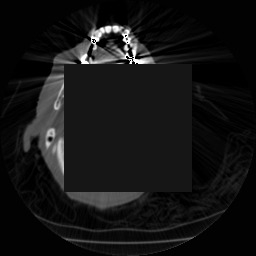
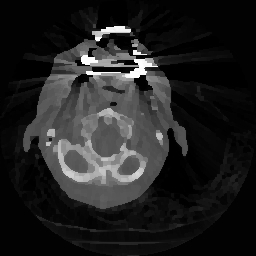
Test improvement

diff --git a/src/imaging/Image.cpp b/src/imaging/Image.cpp
@@ -301,16 +301,17 @@ const void Image::pad_for_kuwahara(const Image& res) const{
         }
     }
 }
+
 void Image::kuwahara()  {
     double mean, variance;
+    const double kernel_area = (kuwahara_kernel_size * kuwahara_kernel_size);
+    #pragma omp parallel for schedule( dynamic, 2)
     for(int ch = 0; ch < channels; ch++){
         std::cout << ch << std::endl;
         for (int i = kuwahara_kernel_size/2; i < getHeight() - kuwahara_kernel_size/2; i++) {
-            std::cout << "Row " << i << std::endl;
             for (int j = kuwahara_kernel_size/2; j < getWidth() - kuwahara_kernel_size/2; j++) {
-                
-                double min_variance = std::numeric_limits<double>::max();;
-                int min_mean_r, min_mean_g, min_mean_b;
+                double min_variance = 255.;
+                double min_mean;
                 for (int x = i - kuwahara_kernel_size/2; x <= i + kuwahara_kernel_size/2; x++) {
                     for (int y = j - kuwahara_kernel_size/2; y <= j + kuwahara_kernel_size/2; y++) {
                         mean = 0.0;
@@ -318,86 +319,20 @@ void Image::kuwahara()  {
                         for (int a = x - kuwahara_kernel_size/2; a <= x + kuwahara_kernel_size/2; a++) {
                             for (int b = y - kuwahara_kernel_size/2; b <= y + kuwahara_kernel_size/2; b++) {
                                 mean += data[(a * w + b) * channels + ch];
+                                variance += data[(a * w + b) * channels + ch] * data[(a * w + b) * channels + ch];
                             }
                         }
-                        mean /= (kuwahara_kernel_size * kuwahara_kernel_size);
-                        for (int a = x - kuwahara_kernel_size/2; a <= x + kuwahara_kernel_size/2; a++) {
-                            for (int b = y - kuwahara_kernel_size/2; b <= y + kuwahara_kernel_size/2; b++) {
-                                variance += (data[(a * w + b) * channels + ch] - mean) * (data[(a * w + b) * channels + ch] - mean);
-                            }
-                        }
-                        variance /= (kuwahara_kernel_size * kuwahara_kernel_size);
-                        if (variance < min_variance) {
-                            min_variance = variance;
-                            min_mean_r = mean;
-                        }
+                        variance = (variance - (mean * mean / kernel_area)) / (kernel_area - 1);
+                        mean /= kernel_area;
+                        min_variance = std::min(variance, min_variance);
+                        min_mean = (min_variance != variance) ? min_mean : mean;
                     }
                 }
-                data[(i * w + j) * channels + ch] = min_mean_r;
+                data[(i * w + j) * channels + ch] = convert_to_pixel(min_mean);
             }
         }
     }
 }
-//-fast-math, try with it
-/*void Image::kuwahara()  {
-    Image output(w, h, channels); // create a new Image object to store the output
-    // copy the data of the original image to the new Image object
-    std::copy_n(data.get(), w * h * channels, output.data.get());
-    const double filter_area = (double)(kuwahara_kernel_size * kuwahara_kernel_size);
-    for(int ch = 0; ch < channels; ch++){
-        //i want the min standard dev, so take the biggest possible value at the starting point
-        double min_avg;
-        double min_dev = std::numeric_limits<double>::max();
-        int min_row;
-        int min_col;
-
-        for(int row = 0; row < h; row += kuwahara_kernel_size - 1){ 
-            for (int col = 0; col < w; col += kuwahara_kernel_size - 1){
-                double sum = 0.0;
-                double dev = 0.0;  
-                //for every row in the divided image of kernel size, sum the row
-                for(int i = row; i < row + kuwahara_kernel_size; i++){
-                    for(int j = col; j < col + kuwahara_kernel_size; j++){
-                        sum += data[(i * w + j) * channels + ch]  ;
-                    }
-                }
-                
-                const double avg = sum / filter_area;
-                std::cout << avg << std::endl;
-                for(int i = row; i < row + kuwahara_kernel_size; i++){
-                    for(int j = col; j < col + kuwahara_kernel_size; j++){
-                        dev += (data[(i * w + j) * channels + ch] - avg) * (data[(i * w + j) * channels + ch] - avg);
-                    }    
-                }
-                dev /= filter_area;
-                dev = std::sqrt(dev);
-                 
-                if(dev < min_dev && avg != 0 && avg != 255){
-                    min_dev = dev;
-                    min_avg = avg;
-                    min_row = row;
-                    min_col = col;
-                    //std::cout << std::to_string(dev) <<std::endl;
-                }
-            }
-        }*/
-        
-        /*std::cout<< min_row - kuwahara_kernel_size / 2 << std::endl;
-        std::cout<< min_col - kuwahara_kernel_size / 2 << std::endl;*/
-        /*for(int i = min_row - kuwahara_kernel_size / 2; i < min_row + kuwahara_kernel_size / 2; i++){
-            for(int j = min_col - kuwahara_kernel_size / 2; j < min_col + kuwahara_kernel_size / 2; j++){
-                output.data[(i * w + j) * channels + ch] = convert_to_pixel(min_avg);
-            }
-        }*/
-        /*for(int i = 0; i < h; i++){
-            for(int j = 0; i < w; j++)
-                std::cout << data[(i * w + j) * channels + ch] << ", ";
-            std::cout << std::endl;
-        }*/
-  /*  }
-    *this = output;
-}*/
-
 
 void Image::crop_to_center(const int width, const int height, const Image& res){
     for(int ch = 0; ch < channel_num; ch++){

diff --git a/src/Test/test.hpp b/src/Test/test.hpp
@@ -8,7 +8,7 @@ namespace Test{
 
     class GenericTest {
         public:
-            GenericTest(ImageVector images_) : images(images_) {};
+            GenericTest(ImageVector images_, bool full_test_) : full_test(full_test_), images(images_) {};
 
             virtual void test() = 0;
 
@@ -22,14 +22,14 @@ namespace Test{
             }
 
         protected:
-            bool full_test = true;
+            bool full_test;
             ImageVector images;
     };
 
 
     class GaussTest : public GenericTest{
         public:
-            GaussTest(ImageVector images_) : GenericTest(images_) {};
+            GaussTest(ImageVector images_, bool full_test_) :  GenericTest(images_, full_test_) {};
 
             void test() {
                 const double start = omp_get_wtime();
@@ -47,7 +47,7 @@ namespace Test{
 
     class SobelTest : public GenericTest{
         public:
-            SobelTest(ImageVector images_) : GenericTest(images_) {};
+            SobelTest(ImageVector images_, bool full_test_) :  GenericTest(images_, full_test_) {};
 
             void test() {
                 full_test = false;
@@ -67,14 +67,14 @@ namespace Test{
 
     class KuwaharaTest : public GenericTest{
         public:
-            KuwaharaTest(ImageVector images_) : GenericTest(images_), outputs(100, Image(medical_img_size + kuwahara_pad, medical_img_size + kuwahara_pad, channel_num)) {};
+            KuwaharaTest(ImageVector images_, bool full_test_) : GenericTest(images_, full_test_), outputs(100, Image(medical_img_size + kuwahara_pad, medical_img_size + kuwahara_pad, channel_num)) {};
 
             void test() {
-                ImageVector outputs(100, Image(medical_img_size + kuwahara_pad, medical_img_size + kuwahara_pad, channel_num));
+                
+                const int start_idx = full_test ? 1 : noisy_start_idx;
+                const int end_idx = full_test ? 100 : noisy_end_idx;
                 const double start = omp_get_wtime();
-                //#pragma omp parallel for schedule(dynamic, 2)
-                for(int i = 74; i < 75; i++){
-                    images[i - 1].pad_for_kuwahara(outputs[i - 1]);
+                for(int i = start_idx; i < end_idx; i++){
                     images[i - 1].kuwahara();
                 }
                 const double end = omp_get_wtime();
@@ -82,7 +82,9 @@ namespace Test{
             } 
 
              void write(const std::string folder) {
-                for(int i = 74; i < 75; i++){
+                const int start_idx = full_test ? 1 : noisy_start_idx;
+                const int end_idx = full_test ? 100 : noisy_end_idx;
+                for(int i = start_idx; i < end_idx; i++){
                     std::string out = "../processed_medical_images/" + folder +  "/cthead-8bit0" + std::to_string(i) + ".jpg";
                     images[i - 1].write(Tools::getChar(out), ImageType::JPG);
                 }/*

diff --git a/src/main.cpp b/src/main.cpp
@@ -47,7 +47,7 @@ int main() {
     d.write("../src/diff.jpg", ImageType::JPG);*/
 
 
-    KuwaharaTest* ku_test = new KuwaharaTest(ku);
+    KuwaharaTest* ku_test = new KuwaharaTest(ku, false);
     ku_test->test();
     ku_test->write("kuwhara");
     std::cout << "_________________________________________________________________________________________" << std::endl;

diff --git a/src/traits/Filtering_traits.hpp b/src/traits/Filtering_traits.hpp
@@ -263,7 +263,7 @@ constexpr uint8_t channel_num = 2;
 
 constexpr int medical_img_size = 256;
 
-constexpr int kuwahara_kernel_size = 5;
+constexpr int kuwahara_kernel_size = 3;
 
 constexpr auto define_pad = [](const int kk_size) -> int {
     for(int i = 0; i < kk_size; i++){

diff --git a/README.md b/README.md
@@ -8,7 +8,6 @@
         - Anisotropic diffusion 
         - Kuwahara
     To do:
-        - Rewrite clear tests and main
         - Rebuild 3d volume 
         - Doc
         - Report pdf
